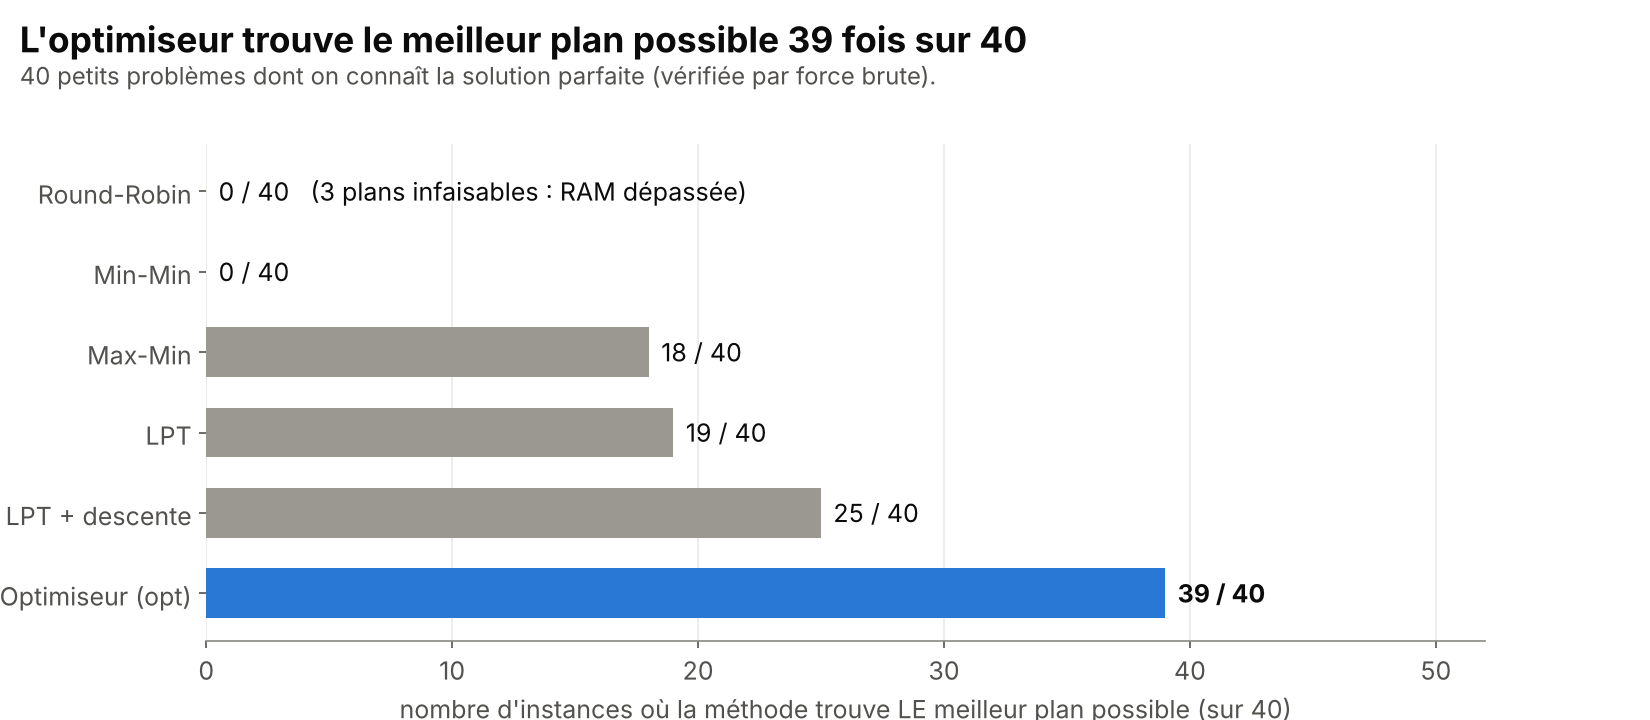
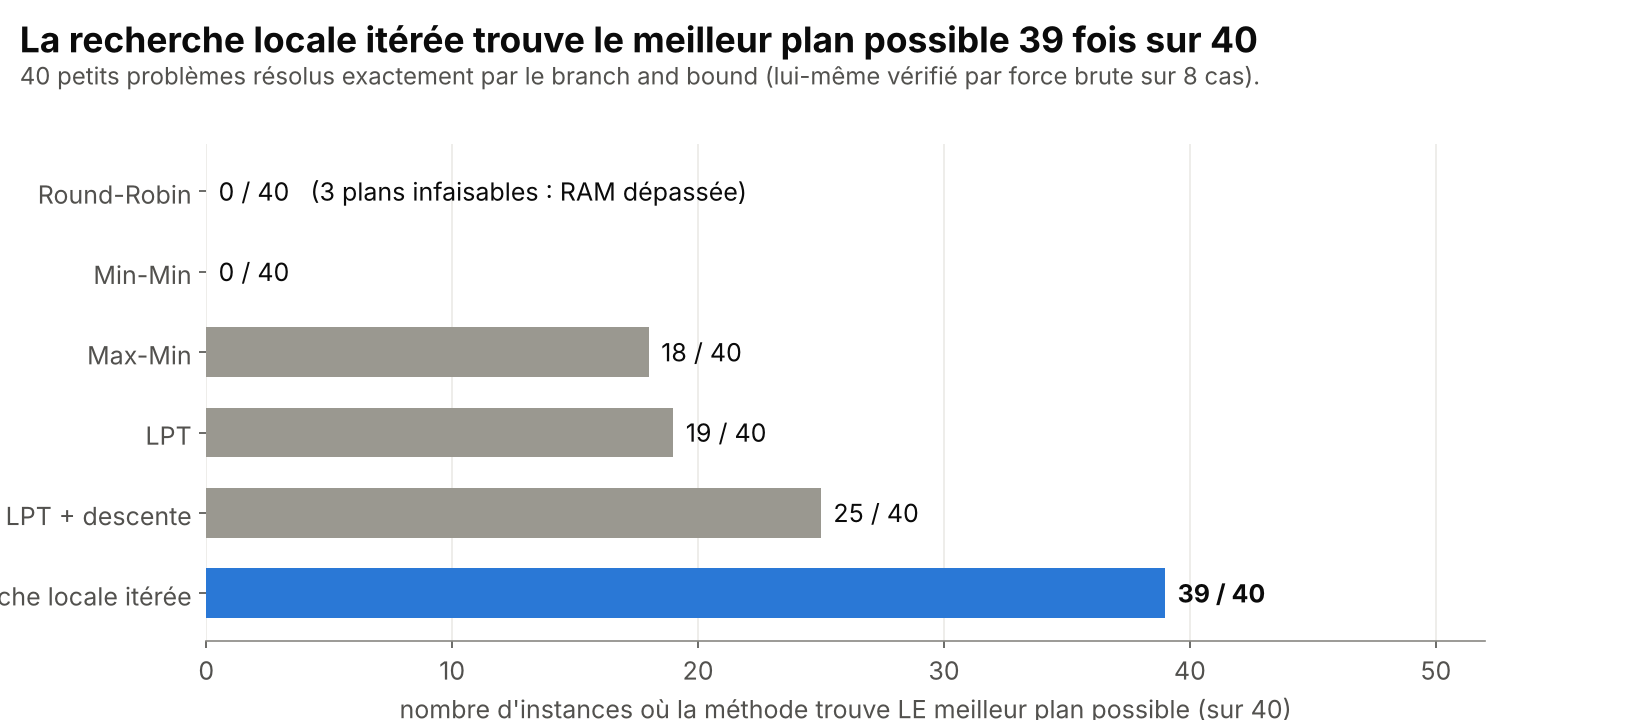
Oral audit fixes: medians, ILS label, burst confirmation chart, 7.5 s vs 12.6 s
- real_run chart uses medians (one slow RR run skewed the mean); LPT = same plan as opt in lot B
- quality chart: the 39/40 is iterated local search; B&B checked by brute force on 8 cases
- new oral_burst_confirm: medium/std2 ratio vs cumulative compute, break at 122 s
- README/DECISIONS: first run was 7.5 s instead of 12.6 s (tasks ~5x faster), not 5x on the makespan

Claude-Session: https://claude.ai/code/session_01SCTEdAjEjwt5ttgCi6ADz5

Changed region(s): [[0.0, 0.0306, 0.7727, 0.1222], [0.0, 0.7944, 0.1236, 0.8556]]

diff --git a/scripts/make_oral_figures.py b/scripts/make_oral_figures.py
@@ -191,7 +191,7 @@ fig.legend(handles=[Patch(color=GRAY_L, label="connexion SSH"), Patch(color=GRAY
                     Patch(color=BLUE, label="calcul (optimiseur)")], fontsize=10.5,
            **({"loc": "lower center", "bbox_to_anchor": (0.55, 0.0), "ncol": 3} if SLIDES else {"loc": "upper right", "bbox_to_anchor": (0.99, 0.99)}))
 fig.subplots_adjust(left=0.1, wspace=0.28, right=0.98)
-gb = 100 * (1 - st.mean(meas["B_opt"]) / st.mean(meas["B_rr"]))
+gb = 100 * (1 - st.median(meas["B_opt"]) / st.median(meas["B_rr"]))
 head(fig, f"Pourquoi l'optimiseur gagne : il équilibre les 3 VMs ({fr(-gb, 0)} %)",
      "Scénario B, 10 tâches, run réel (répétition médiane). Une barre = une tâche, de son lancement à sa fin.\n"
      "Round-Robin distribue à tour de rôle : une VM finit tard pendant que les autres attendent.")
@@ -200,31 +200,31 @@ save(fig, "oral_gantt_b", top=0.78, bottom=0.2 if SLIDES else None)
 # ---------------------------------------------------------------------------------------------- real run
 fig, axs = plt.subplots(1, 2, figsize=(12, 5), gridspec_kw={"width_ratios": [2, 3]})
 for ax, sc, ns in [(axs[0], "A", ["A_rr", "A_opt"]), (axs[1], "B", ["B_rr", "B_lpt", "B_opt"])]:
-    lab = {"rr": "Round-Robin", "lpt": "LPT\n(glouton)", "opt": "Optimiseur\n(opt)"}
-    rr = st.mean(meas[sc + "_rr"])
+    lab = {"rr": "Round-Robin", "lpt": "LPT\n(même plan)", "opt": "Optimiseur\n(opt)"}
+    rr = st.median(meas[sc + "_rr"])
     for i, n in enumerate(ns):
         v = meas[n]
         c = GRAY if n.endswith("_rr") else (BLUE if n.endswith("_opt") else BLUE_L)
-        ax.bar(i, st.mean(v), width=0.62, color=c)
+        ax.bar(i, st.median(v), width=0.62, color=c)
         ax.plot([i, i], [min(v), max(v)], color=INK, lw=1.4)
         ax.plot([i - 0.08, i + 0.08], [min(v)] * 2, color=INK, lw=1.4); ax.plot([i - 0.08, i + 0.08], [max(v)] * 2, color=INK, lw=1.4)
-        g = "" if n.endswith("_rr") else f"\n{fr(100 * (st.mean(v) - rr) / rr, 0)} %"
-        ax.text(i, max(v) + 0.5, f"{fr(st.mean(v))} s{g}", ha="center", va="bottom", fontsize=12.5,
+        g = "" if n.endswith("_rr") else f"\n{fr(100 * (st.median(v) - rr) / rr, 0)} %"
+        ax.text(i, max(v) + 0.5, f"{fr(st.median(v))} s{g}", ha="center", va="bottom", fontsize=12.5,
                 fontweight="bold" if n.endswith("_opt") else "normal", color=INK)
     ax.set_xticks(range(len(ns)), [lab[n[2:]] for n in ns])
     ax.set_ylim(0, 29); ax.grid(axis="x", visible=False)
     ax.set_title(f"Scénario {sc} : {9 if sc == 'A' else 10} tâches", loc="left", fontweight="bold")
 axs[0].set_ylabel("temps pour finir le lot (s)")
-ga = 100 * (1 - st.mean(meas["A_opt"]) / st.mean(meas["A_rr"]))
+ga = 100 * (1 - st.median(meas["A_opt"]) / st.median(meas["A_rr"]))
 head(fig, f"Sur les vraies VMs, l'optimiseur finit {fr(ga, 0)} à {fr(gb, 0)} % plus tôt que Round-Robin",
-     f"Mesuré le 13/11 : {len(reps)} runs par plan ; barre = moyenne, trait = du plus rapide au plus lent.\n"
+     f"Mesuré le 13/11 : {len(reps)} runs par plan ; barre = médiane, trait = du plus rapide au plus lent.\n"
      "Les traits ne se recouvrent pas : le gain n'est pas du bruit.")
 save(fig, "oral_real_run", top=0.78)
 
 # ---------------------------------------------------------------------------------------------- quality
 q = [r for r in csv.DictReader(open("results/scaling.csv")) if r["part"] == "quality"]
 meth = [("rr", "Round-Robin"), ("minmin", "Min-Min"), ("maxmin", "Max-Min"), ("lpt", "LPT"), ("ls", "LPT + descente"),
-        ("ils", "Optimiseur (opt)")]
+        ("ils", "Recherche locale itérée")]
 fig, ax = plt.subplots(figsize=(11, 4.8))
 for i, (mk, lab) in enumerate(meth):
     rs = [r for r in q if r["method"] == mk]
@@ -238,8 +238,8 @@ for i, (mk, lab) in enumerate(meth):
 ax.set_yticks(range(len(meth)), [l for _, l in meth]); ax.invert_yaxis()
 ax.set_xlim(0, 52); ax.set_xlabel("nombre d'instances où la méthode trouve LE meilleur plan possible (sur 40)")
 ax.grid(axis="y", visible=False)
-head(fig, "L'optimiseur trouve le meilleur plan possible 39 fois sur 40",
-     "40 petits problèmes dont on connaît la solution parfaite (vérifiée par force brute).")
+head(fig, "La recherche locale itérée trouve le meilleur plan possible 39 fois sur 40",
+     "40 petits problèmes résolus exactement par le branch and bound (lui-même vérifié par force brute sur 8 cas).")
 save(fig, "oral_quality", top=0.80)
 
 # ---------------------------------------------------------------------------------------------- scaling
@@ -444,3 +444,32 @@ save(fig, "oral_burst_rule", top=0.78)
 
 json.dump({sc: [(l.replace("\n", " "), round(t, 2), round(c, 4)) for l, t, c, _, _ in tri[sc]] for sc in tri},
           open(os.path.join(OUT, "oral_trio.json"), "w"), indent=1, ensure_ascii=False)
+
+# ---------------------------------------------------------------------------------------------- burst, 2nd experiment
+# measure_p.sh ran the e2-medium runs back to back: the ratio medium / standard breaks at the burst reserve (D47)
+raw = list(csv.DictReader(open(os.path.join(CS, "p_raw.csv"))))
+stdt = {}
+for r in raw:
+    if r["vm"] == "cloudopt-vm1":
+        stdt.setdefault((r["workload"], r["size"]), []).append(float(r["runtime_s"]))
+cum, pts_in, pts_out = 0.0, [], []
+for r in raw:
+    if r["vm"] != "cloudopt-vm2":
+        continue
+    t = float(r["runtime_s"])
+    ratio = t / st.mean(stdt[(r["workload"], r["size"])])
+    (pts_in if cum + t <= TB else pts_out).append((cum, ratio))
+    cum += t
+fig, ax = plt.subplots(figsize=(11, 4.6))
+ax.axvspan(0, TB, color=ORANGE_L, alpha=0.45, lw=0)
+ax.scatter([x for x, _ in pts_in], [y for _, y in pts_in], s=60, color=BLUE, zorder=3, label="run dans la réserve")
+ax.scatter([x for x, _ in pts_out], [y for _, y in pts_out], s=60, color=ORANGE, zorder=3, label="run après la réserve")
+ax.axhline(1, color=INK3, lw=1, ls="--")
+ax.axvline(TB, color=INK, lw=1.2)
+ax.text(TB - 3, 2.65, f"réserve mesurée par l'étude burst : {fr(TB, 0)} s", fontsize=11.5, color=INK, va="top", ha="right")
+ax.set_xlabel("temps de calcul cumulé sur l'e2-medium au début du run (s)")
+ax.set_ylabel("durée e2-medium / durée e2-standard-2")
+ax.set_ylim(0, 2.8); ax.legend(loc="center left", fontsize=11)
+head(fig, "Deuxième expérience, même seuil : l'e2-medium ralentit après ~120 s de calcul cumulé",
+     "Mesure des p_ij du 13/11 (tâches enchaînées sur l'e2-medium) : rapport ≈ 1 dans le burst, puis jusqu'à 2,5.")
+save(fig, "oral_burst_confirm", top=0.80)

diff --git a/scripts/correct_medium_p.py b/scripts/correct_medium_p.py
@@ -5,7 +5,7 @@ Why: measure_p.sh ran the 24 runs back to back on the e2-medium. After ~120 s of
 its burst reserve is empty (measured independently by burst_study.sh: 122 s) and it runs at half speed,
 so the last tasks of the loop (memory 2048, every sort) were measured 2x too slow. During the real runs the
 e2-medium had rested, so it was in burst. Here: a run whose cumulative start time exceeds the reserve is
-replaced by the e2-standard-2 time of the same task (in burst both VMs run at the same speed: the 14 runs
+replaced by the e2-standard-2 time of the same task (in burst both VMs run at the same speed: the 16 runs
 inside the burst agree within 2 %). Writes SESSION/p_matrix_now_corrected.csv and SESSION/vms_now_corrected.csv."""
 import csv, glob, json, os, statistics as st, sys
 

diff --git a/README.md b/README.md
@@ -153,7 +153,7 @@ Les plans trouvés :
 
 ![passage à l'échelle](results/oral_scaling.png)
 
-**Sur les vraies VMs (13/11).** Le premier run a fini **5× plus vite** que prévu : 7,5 s au lieu de 12,6 s pour `opt` en A. Toutes les tâches étaient plus rapides. Ce jour-là, GCP avait démarré nos VMs sur un processeur plus récent que le Broadwell du TD2 : sur E2, la plateforme CPU **n'est pas garantie**, elle peut changer à chaque démarrage. Le plan restait bon, mais les p_ij du TD2 ne valaient plus (CM4 : « wrong data, wrong plan »).
+**Sur les vraies VMs (13/11).** Le premier run a fini en **7,5 s au lieu des 12,6 s prédites** pour `opt` en A : chaque tâche allait environ 5× plus vite (le makespan, qui garde 3 s de SSH, n'est que 1,7× plus court). Ce jour-là, GCP avait démarré nos VMs sur un processeur plus récent que le Broadwell du TD2 : sur E2, la plateforme CPU **n'est pas garantie**, elle peut changer à chaque démarrage. Le plan restait bon, mais les p_ij du TD2 ne valaient plus (CM4 : « wrong data, wrong plan »).
 
 D'où `make compare-run` (D44). Dans **une seule session**, il :
 1. note la plateforme CPU de chaque VM ;
@@ -255,7 +255,7 @@ Données : [results/burst/session_20261113_2002/](results/burst/session_20261113
 | Toujours donner le plan, la borne et le statut | CM4 : « never report a value alone » | D40 |
 | Mesurer la qualité contre l'optimum prouvé et contre une force brute indépendante | pas d'affirmation sans preuve | D41 |
 | Pas de solveur ILP | notre modèle n'est pas linéaire, et le projet impose un langage compilé | D39 |
-| Re-mesurer les p_ij dans la même session que la comparaison, 5 répétitions, ordre tourné | la plateforme CPU E2 change d'un démarrage à l'autre (premier run 5× plus rapide) | D44 |
+| Re-mesurer les p_ij dans la même session que la comparaison, 5 répétitions, ordre tourné | la plateforme CPU E2 change d'un démarrage à l'autre (premier run : tâches ~5× plus rapides) | D44 |
 | Étude du burst : charge, épuisement, recharge, avec un témoin e2-standard-2 | isoler l'effet des crédits ; vitesse mesurée, pas déduite du `steal` (qui reste à 0) | D45 |
 | Choisir la flotte par makespan **et** coût (front de Pareto), avec le même optimiseur | e2-medium : même vitesse pour moitié prix tant qu'il reste des crédits | D46 |
 | Mesurer les p_ij de l'e2-medium avec une pause après chaque run | sinon, après ~2 min, les tâches sont mesurées à sec (2× trop lentes) | D47 |
@@ -281,7 +281,7 @@ Ce que vérifie `make test-optimizer` :
 
 - **L'optimum est celui du modèle.** Le modèle est calé sur 12 points, avec une erreur moyenne de 0,78 s. Un plan prouvé optimal à 12,6 s peut mesurer 13 s ou plus.
 - **Burst.** Le modèle suppose que les e2-medium ont des crédits : c'est vrai pour nos lots (~16 s pour ~2 min de burst disponibles, mesuré). Pour des runs longs ou enchaînés sans pause, il faut passer leur colonne aux p_ij « à sec » (2× plus lents).
-- **Variabilité du cloud.** La plateforme CPU change d'un démarrage à l'autre : le premier run était 5× plus rapide. On re-mesure donc les p_ij à chaque session. RR varie de 19,7 à 25,2 s sur 5 runs ; `opt` de 16,1 à 16,4 s.
+- **Variabilité du cloud.** La plateforme CPU change d'un démarrage à l'autre : au premier run, les tâches allaient ~5× plus vite (7,5 s au lieu de 12,6 s). On re-mesure donc les p_ij à chaque session. RR varie de 19,7 à 25,2 s sur 5 runs ; `opt` de 16,1 à 16,4 s.
 - **Borne faible aux tailles moyennes.** L'écart affiché (10–26 %) surestime l'écart réel.
 - **Petits échantillons.** Avec 3 runs par mesure, on voit la variabilité, mais on n'a pas d'intervalle de confiance solide.
 - **WSL2 en local.** On n'a fait ni épinglage CPU ni fixation de la fréquence.

diff --git a/docs/DECISIONS.md b/docs/DECISIONS.md
@@ -324,7 +324,7 @@ Les critères de la grille /20 sont notés `[G: critère]`.
 - TD3 : pas de reprise automatique d'une tâche échouée ; l'échec est signalé, l'opérateur relance.
 - TD4 : Round-Robin dépend de l'ordre de `tasks.csv` et ignore durée, RAM, vCPU et prix : c'est une baseline, pas une optimisation (D35).
 - TD4 : `estimate_alloc.sh` suppose un partage parfait des vCPU ; il sous-estime la contention (hyperthreads) et surestime les e2-medium en burst.
-- Plateforme CPU E2 variable d'un démarrage à l'autre (un run 5× plus rapide) : p_ij re-mesurés à chaque session de comparaison (D44).
+- Plateforme CPU E2 variable d'un démarrage à l'autre (un run aux tâches ~5× plus rapides : 7,5 s au lieu de 12,6 s) : p_ij re-mesurés à chaque session de comparaison (D44).
 - Burst (D45) : une seule session et une seule plateforme ; la recharge à 2 vCPU n'est connue qu'en minimum (sondes de 90 s plus courtes que le burst).
 - Optimisation : l'optimum est celui du **modèle** (erreur moyenne 0,78 s sur 12 points, 0,5 s sur la session du 13/11) ; la borne inférieure est faible sur les tailles moyennes hétérogènes (écart affiché 10–26 % alors que le plan est souvent optimal) ; H2 suppose des e2-medium en burst (D38).
 - TD3 : au-delà de ~10 tâches simultanées sur une même VM, la limite `MaxStartups` de sshd peut refuser des connexions (D24).
